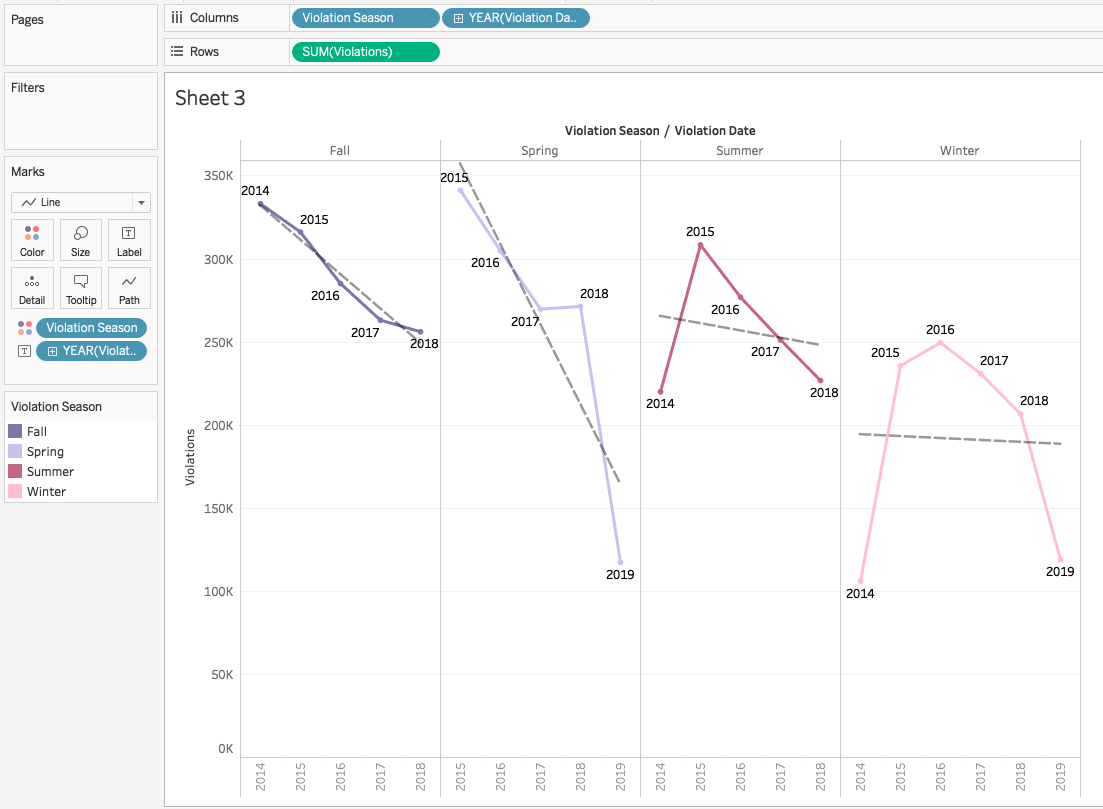
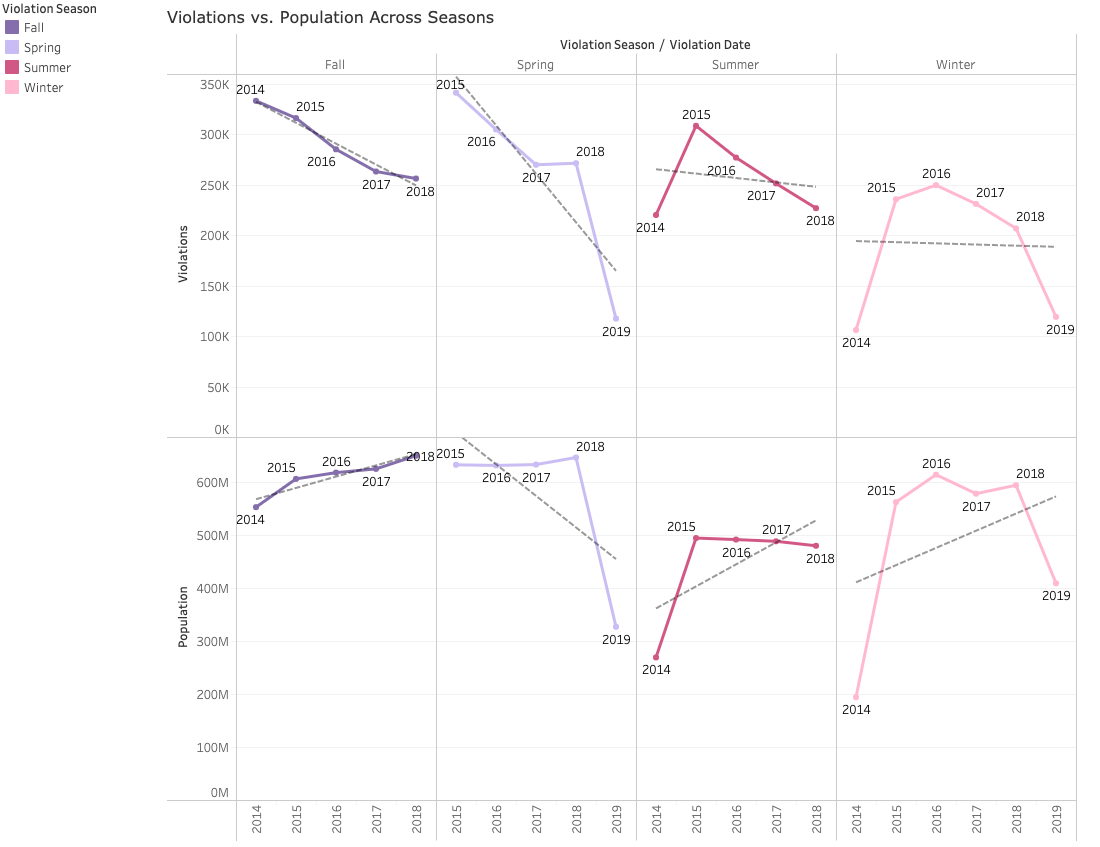
complete making of doc along with images

diff --git a/Making-Of.md b/Making-Of.md
@@ -6,31 +6,91 @@ The audience of the visualizations would be the Mayor of Chicago.
 
 
 ## Data Cleaning and Processing
-The original dataset is speed camera violations in Chicago where each record gives the number of violations captured by a particular camera on a given day. The zipcodes in the original dataset seemed wrong hence the dataset was merged with another dataset using wards as the field on which the join was performed. The zipcodes were later used to collate  demographic information about the locations like median age, total, male and femal population. The demographic information was downloaded from the US Census Bureau website. 
+The original dataset is speed camera violations in Chicago where each record gives the number of violations captured by a particular camera on a given day. The zipcodes in the original dataset seemed wrong hence the dataset that had information about Chicago City's various wards, zipcodes etc. The two datasets were merged using wards as the field on which the join was performed.
+
+[Source](https://data.cityofchicago.org/Facilities-Geographic-Boundaries/Ward-Offices/htai-wnw4)
+
+![Join](https://github.com/preranap1/Chicago-City-Speed-Camera-Violations-Visualizations/blob/master/Images/4.1.png)
+
+The zipcodes were later used to collate  demographic information about the locations like median age, total, male and femal population. The demographic information was downloaded from the US Census Bureau website. 
+
+I also created a Violation Season field by creating different groups by using the month variable.
+
+![Seasons](https://github.com/preranap1/Chicago-City-Speed-Camera-Violations-Visualizations/blob/master/Images/4.2.png)
 
 ## Visualization 1: Population vs Violation Trend
 
-I wanted the first visualization to give a general picture to the audience. Hence, I decided to explore the amount of violations recorded across time. 
+I wanted the first visualization to give a general picture to the audience. Hence, I decided to explore the amount of violations recorded across time. I also wanted to show amount of violations occurred across different months over the years. I thought it would be interesting to compare the violations over time with population. The axis was changed to 'dual axis' in order to show both line graphs overlapping. 
 
-![Version 1](https://github.com/preranap1/Chicago-City-Speed-Camera-Violations-Visualizations/blob/master/Images/Viz2.1.png)
-
-
-I also wanted to show amount of violations occurred across different months over the years. I thought it would be interesting to compare the violations over time with population. The axis was changed to 'dual axis' in order to show both line graphs overlapping. 
-
-![Version 2](https://github.com/preranap1/Chicago-City-Speed-Camera-Violations-Visualizations/blob/master/Images/Viz2.2.png)![Version 3](https://github.com/preranap1/Chicago-City-Speed-Camera-Violations-Visualizations/blob/master/Images/Viz2.3.png)
+![Version 1](https://github.com/preranap1/Chicago-City-Speed-Camera-Violations-Visualizations/blob/master/Images/Viz2.2.png)![Version 2](https://github.com/preranap1/Chicago-City-Speed-Camera-Violations-Visualizations/blob/master/Images/Viz2.3.png)
 
 The question was, do violations increase or decrease over time? One would assume that with an increase in population, the number of violations also increase. To check if this assumption was true, I added the trend line to the graph. 
-![Version 4](https://github.com/preranap1/Chicago-City-Speed-Camera-Violations-Visualizations/blob/master/Images/Viz2.4.png)
+![Version 3](https://github.com/preranap1/Chicago-City-Speed-Camera-Violations-Visualizations/blob/master/Images/Viz2.4.png)
 
 Finally to focus on the trend, I reduced the opacity of the plotted graph so that the trend line sticks out.
-![Version 5](https://github.com/preranap1/Chicago-City-Speed-Camera-Violations-Visualizations/blob/master/Images/Viz2.5.png)
-
-
+![Final](https://github.com/preranap1/Chicago-City-Speed-Camera-Violations-Visualizations/blob/master/Images/Viz2.5.png)
 
 **Future Enhancements:**
 
-* It would be great to present some more demographic data for Chicago, in order to learn more about the population. Information like economic factors, age, distribution of males over females could be used.
-* Another enhancement would be to include forecast.
+* It would be great to present some more demographic data for Chicago, in order to learn more about the population Information like economic factors, age, distribution of males over females could be used
 
 
+## Visualization 2: Population vs Violation Across Seasons
 
+In the data exploratory phase, I had created a pie-chart to showcase number of violations across seasons.
+![Previous](https://github.com/preranap1/Chicago-City-Speed-Camera-Violations-Visualizations/blob/master/Images/Viz1.1.png)
+
+I wanted to explore and understand how the volume of violations change over the seasons. I further checked if the number of violations change drastically over seasons in different years as well. A bar chart seemed like a good idea then.
+
+![Version 1](https://github.com/preranap1/Chicago-City-Speed-Camera-Violations-Visualizations/blob/master/Images/Viz1.2.png)
+
+As the comparison across years was not very clear in version 1. I decided to change the x-axis from years to seasons and add year information on the chart itself. This made the chart even more confusion and was counter intutive. 
+
+![Version 2](https://github.com/preranap1/Chicago-City-Speed-Camera-Violations-Visualizations/blob/master/Images/Viz1.3.png)
+
+Then, I decided to include both year and season on the x-axis. This made the chart a little better but still was too much information to processes with the different coloured bars. 
+
+![Version 3](https://github.com/preranap1/Chicago-City-Speed-Camera-Violations-Visualizations/blob/master/Images/Viz1.4.png)
+
+This is when I decided that a line chart will convey the information cleanly. The trends across seasons were very clearly visible.
+
+![Version 4](https://github.com/preranap1/Chicago-City-Speed-Camera-Violations-Visualizations/blob/master/Images/Viz1.5.png)
+
+Finally to compare the seasonality in violations and population I added population as another parameter. The dotted lines over each graph further explained the trends. The direction of the dotted line clearly explains the trend in which the violations increase or decrease across seasons and also the distribution of population in each season.
+
+![Final](https://github.com/preranap1/Chicago-City-Speed-Camera-Violations-Visualizations/blob/master/Images/Viz1.6.png)
+
+**Future Enhancements:**
+
+* I would like to study data about accidents across seasons and compare that with violations
+* Would also like to create a forecast
+
+## Visualization 3: Trends in Violations During different days of the week
+
+I wanted to check if there was an insight as to the day on which most violations are recorded. I checked this for all the values in the dataset. 
+
+![Version 1](https://github.com/preranap1/Chicago-City-Speed-Camera-Violations-Visualizations/blob/master/Images/Viz3.1.png)
+
+It can be observed that most violations are recoded on Friday. 
+
+Taking cue from visualizations created in the exploratory phase, I wanted to check whether the addresses with 10 most recorded violations and the addresses with 10 least recorded violations show a different trend. 
+
+![Version 2](https://github.com/preranap1/Chicago-City-Speed-Camera-Violations-Visualizations/blob/master/Images/Viz3.4.png)
+
+Version 2 shows the recorded violations for the top 5 addresses. Although overall it can be seen that Friday is not the day most violations are recorded for the top 5 addresses, the actual pattern for each addresses is really not clear here. Hence I decided to convert the visualization into a line graph. When it was done, the pattern for each address was clear.
+
+
+![Version 3](https://github.com/preranap1/Chicago-City-Speed-Camera-Violations-Visualizations/blob/master/Images/Viz3.6.png)
+
+A similar visual for bottom 5 addresses was plotted. It was seen that for the bottom 5 addresses, the day with most violations was Wednesday. 
+
+![Version 4](https://github.com/preranap1/Chicago-City-Speed-Camera-Violations-Visualizations/blob/master/Images/Viz3.7.png)
+
+While creating the dashboard, all three visuals were placed next to each other so that the patterns are easy for the user to understand and interpret.
+
+![Final](https://github.com/preranap1/Chicago-City-Speed-Camera-Violations-Visualizations/blob/master/Images/Viz3.8.png)
+
+**Future Enhancements:**
+
+* Since the axis of all three visualizations is the same, I would want to make it more uniform. 
+* There is a hughe difference in the number of violations in the three graphs, especially between bottom 5 when compared to top 5 and all addresses. I would like to work on the scale of the graphs as well.
